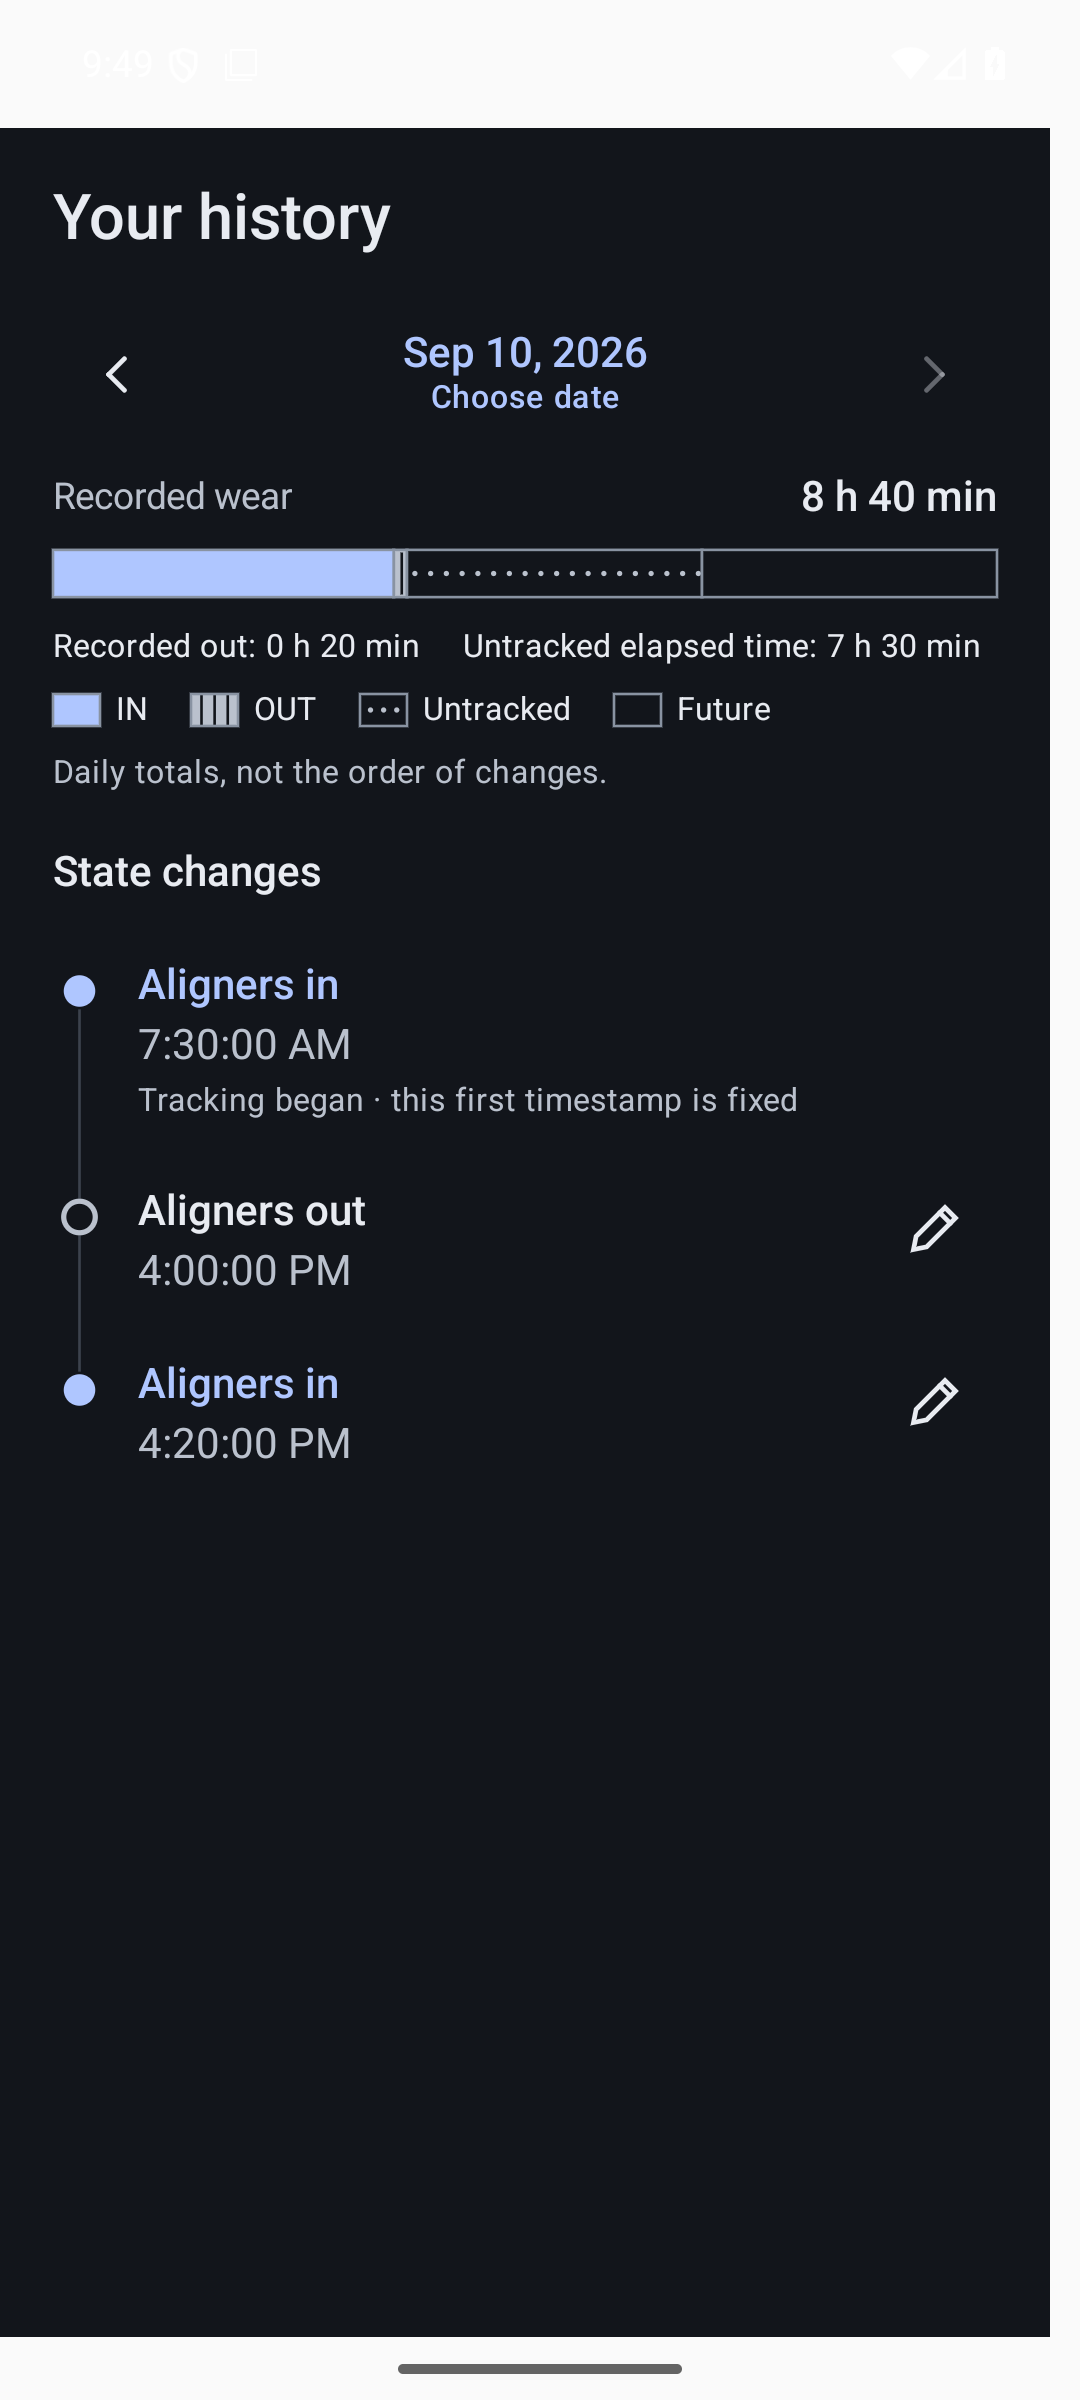
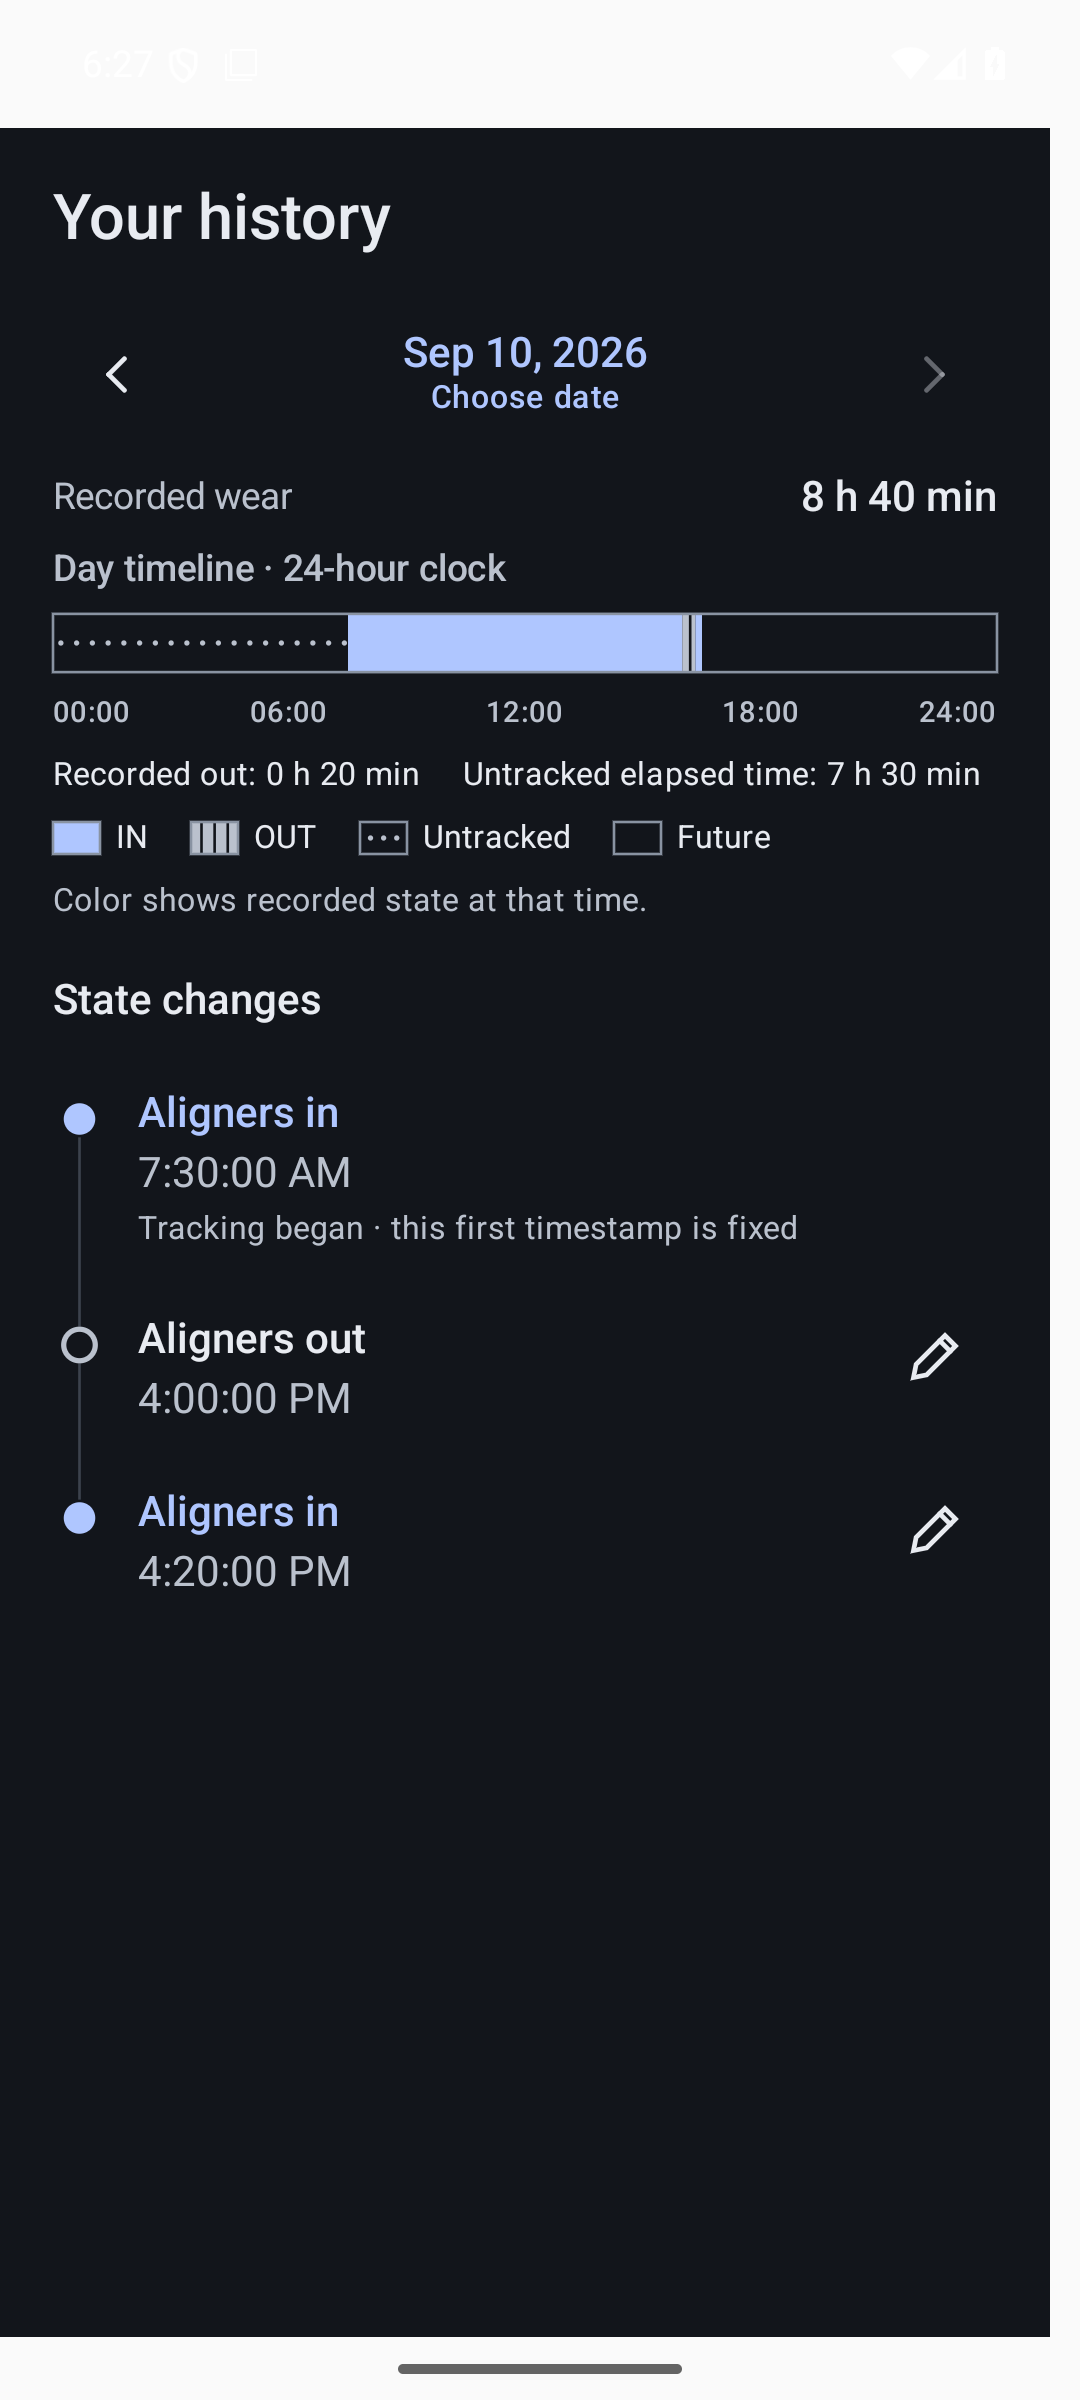
Update History timeline rationale and emulator evidence (#46)

diff --git a/docs/history-focus.md b/docs/history-focus.md
@@ -1,26 +1,29 @@
 # History refinement — #46
 
-Owner requested online research, implementation and a screenshot, preserving the
-progress/breakdown bar and date picker. Started from clean main `8a058f7` after
-fetching origin; no open PRs or existing changes. Inspected the running version9
-History screen and product, architecture, roadmap, design, accessibility and
-localization guidance. No release or owner-phone installation is included.
+Owner requested research and refinement, then clarified that the bar should represent
+when each state occurred. PR #47 / #46 now includes that chronological day bar.
+The native date picker remains unchanged. No release or owner-phone installation
+is included.
 
 ## Decision
 
-The existing “About this breakdown” button only reveals explanation and derived
-tracked/future totals. History now shows the four pattern keys inline plus “Daily
-totals, not the order of changes.” Exact totals remain in the unchanged bar's
-accessible description. The bar, date navigation and native calendar are unchanged.
-Today and Progress retain their existing disclosures.
+History shows a midnight-to-midnight timeline, with blue IN, striped gray OUT,
+dotted elapsed untracked time, and empty future time. Each boundary is positioned
+from its actual instant within the selected treatment-zone day. Axis labels use a
+24-hour clock; 24:00 means the following midnight. At larger text sizes fewer axis
+labels are shown. Time increases left-to-right in both LTR and RTL, with labels
+placed at the same physical instants. Day lengths can be23 or25 hours; local noon
+is therefore not forced to the geometric midpoint on a DST transition day.
 
-Considered color-only rows, repeated aligner pictures, and a proportional interval
-chart. Chose a restrained vertical event timeline: filled blue IN markers and
-outlined neutral OUT markers, always accompanied by explicit state labels.
-This reduces repeated date text and horizontal separators without implying
-unrecorded session durations or adding another competing chart. The thin connector
-indicates order only; spacing follows content height, not duration. No inferred
-activity or IN/OUT state is inserted on days without events.
+The inline key replaces “About this breakdown.” The vertical event list uses
+filled blue IN and outlined neutral OUT markers with explicit state labels. That
+list's connector indicates order only; its row spacing is not a duration scale.
+The horizontal day bar is proportional to elapsed duration. Overnight states carry
+into the next day even if there is no new event at midnight; before first recording,
+tracking gaps and elapsed time after completion remain untracked. Future time is
+never counted as IN or OUT. Numeric interval descriptions expose the exact recorded
+start/end instants through accessibility semantics. Day totals still come from
+unchanged WearMath accounting. Today and Progress retain their original totals bars.
 
 Visible timestamps retain seconds and follow locale and device 12/24-hour format;
 the selected date supplies day context. Edit accessibility labels retain full date
@@ -29,7 +32,7 @@ completed-treatment read-only behavior and exact event callbacks are preserved.
 No timestamp, timezone, accounting, persistence, reminders, backup, widget, Wear,
 permission or service contracts change.
 
-Original Compose Canvas source is [HistoryVisuals.kt](../app/src/main/java/org/alignertracker/app/ui/HistoryVisuals.kt),
+Original Compose Canvas source includes [HistoryDayTimeline.kt](../app/src/main/java/org/alignertracker/app/ui/HistoryDayTimeline.kt) and [HistoryVisuals.kt](../app/src/main/java/org/alignertracker/app/ui/HistoryVisuals.kt),
 authored by OpenAI Codex for this repository under its GPL-3.0-or-later license.
 No external artwork or new dependencies. The neutral palette and primary accent
 are reused; filled/outlined geometry and labels carry state in monochrome.
@@ -66,6 +69,14 @@ the unchanged native calendar flow and RTL date-navigation semantics.
 
 `scripts/check.sh` passed with JDK21: Spotless, 63 phone and 9 Wear JVM tests,
 debug/release lint, and all phone/Wear debug, instrumentation and release builds.
+
+The chronological follow-up adds three projection tests for ordered breaks,
+overnight carry, tracking-start/completion clipping, unknown coverage, actual DST
+day lengths and equality with WearMath totals. The focused History tests and capture
+matrix were rerun. Review caught overlapping numeric axis labels in expanded
+pseudolocale; the language-neutral numeric pattern is now non-translatable, while
+number formatting remains locale-aware. Exact interval accessibility descriptions
+remain localized. The final full check has 66 phone +9 Wear JVM tests.
 
 One material visual review found the list and legend readable across these cases.
 A focused test caught edit semantic bounds of40dp after the row refactor; restoring
